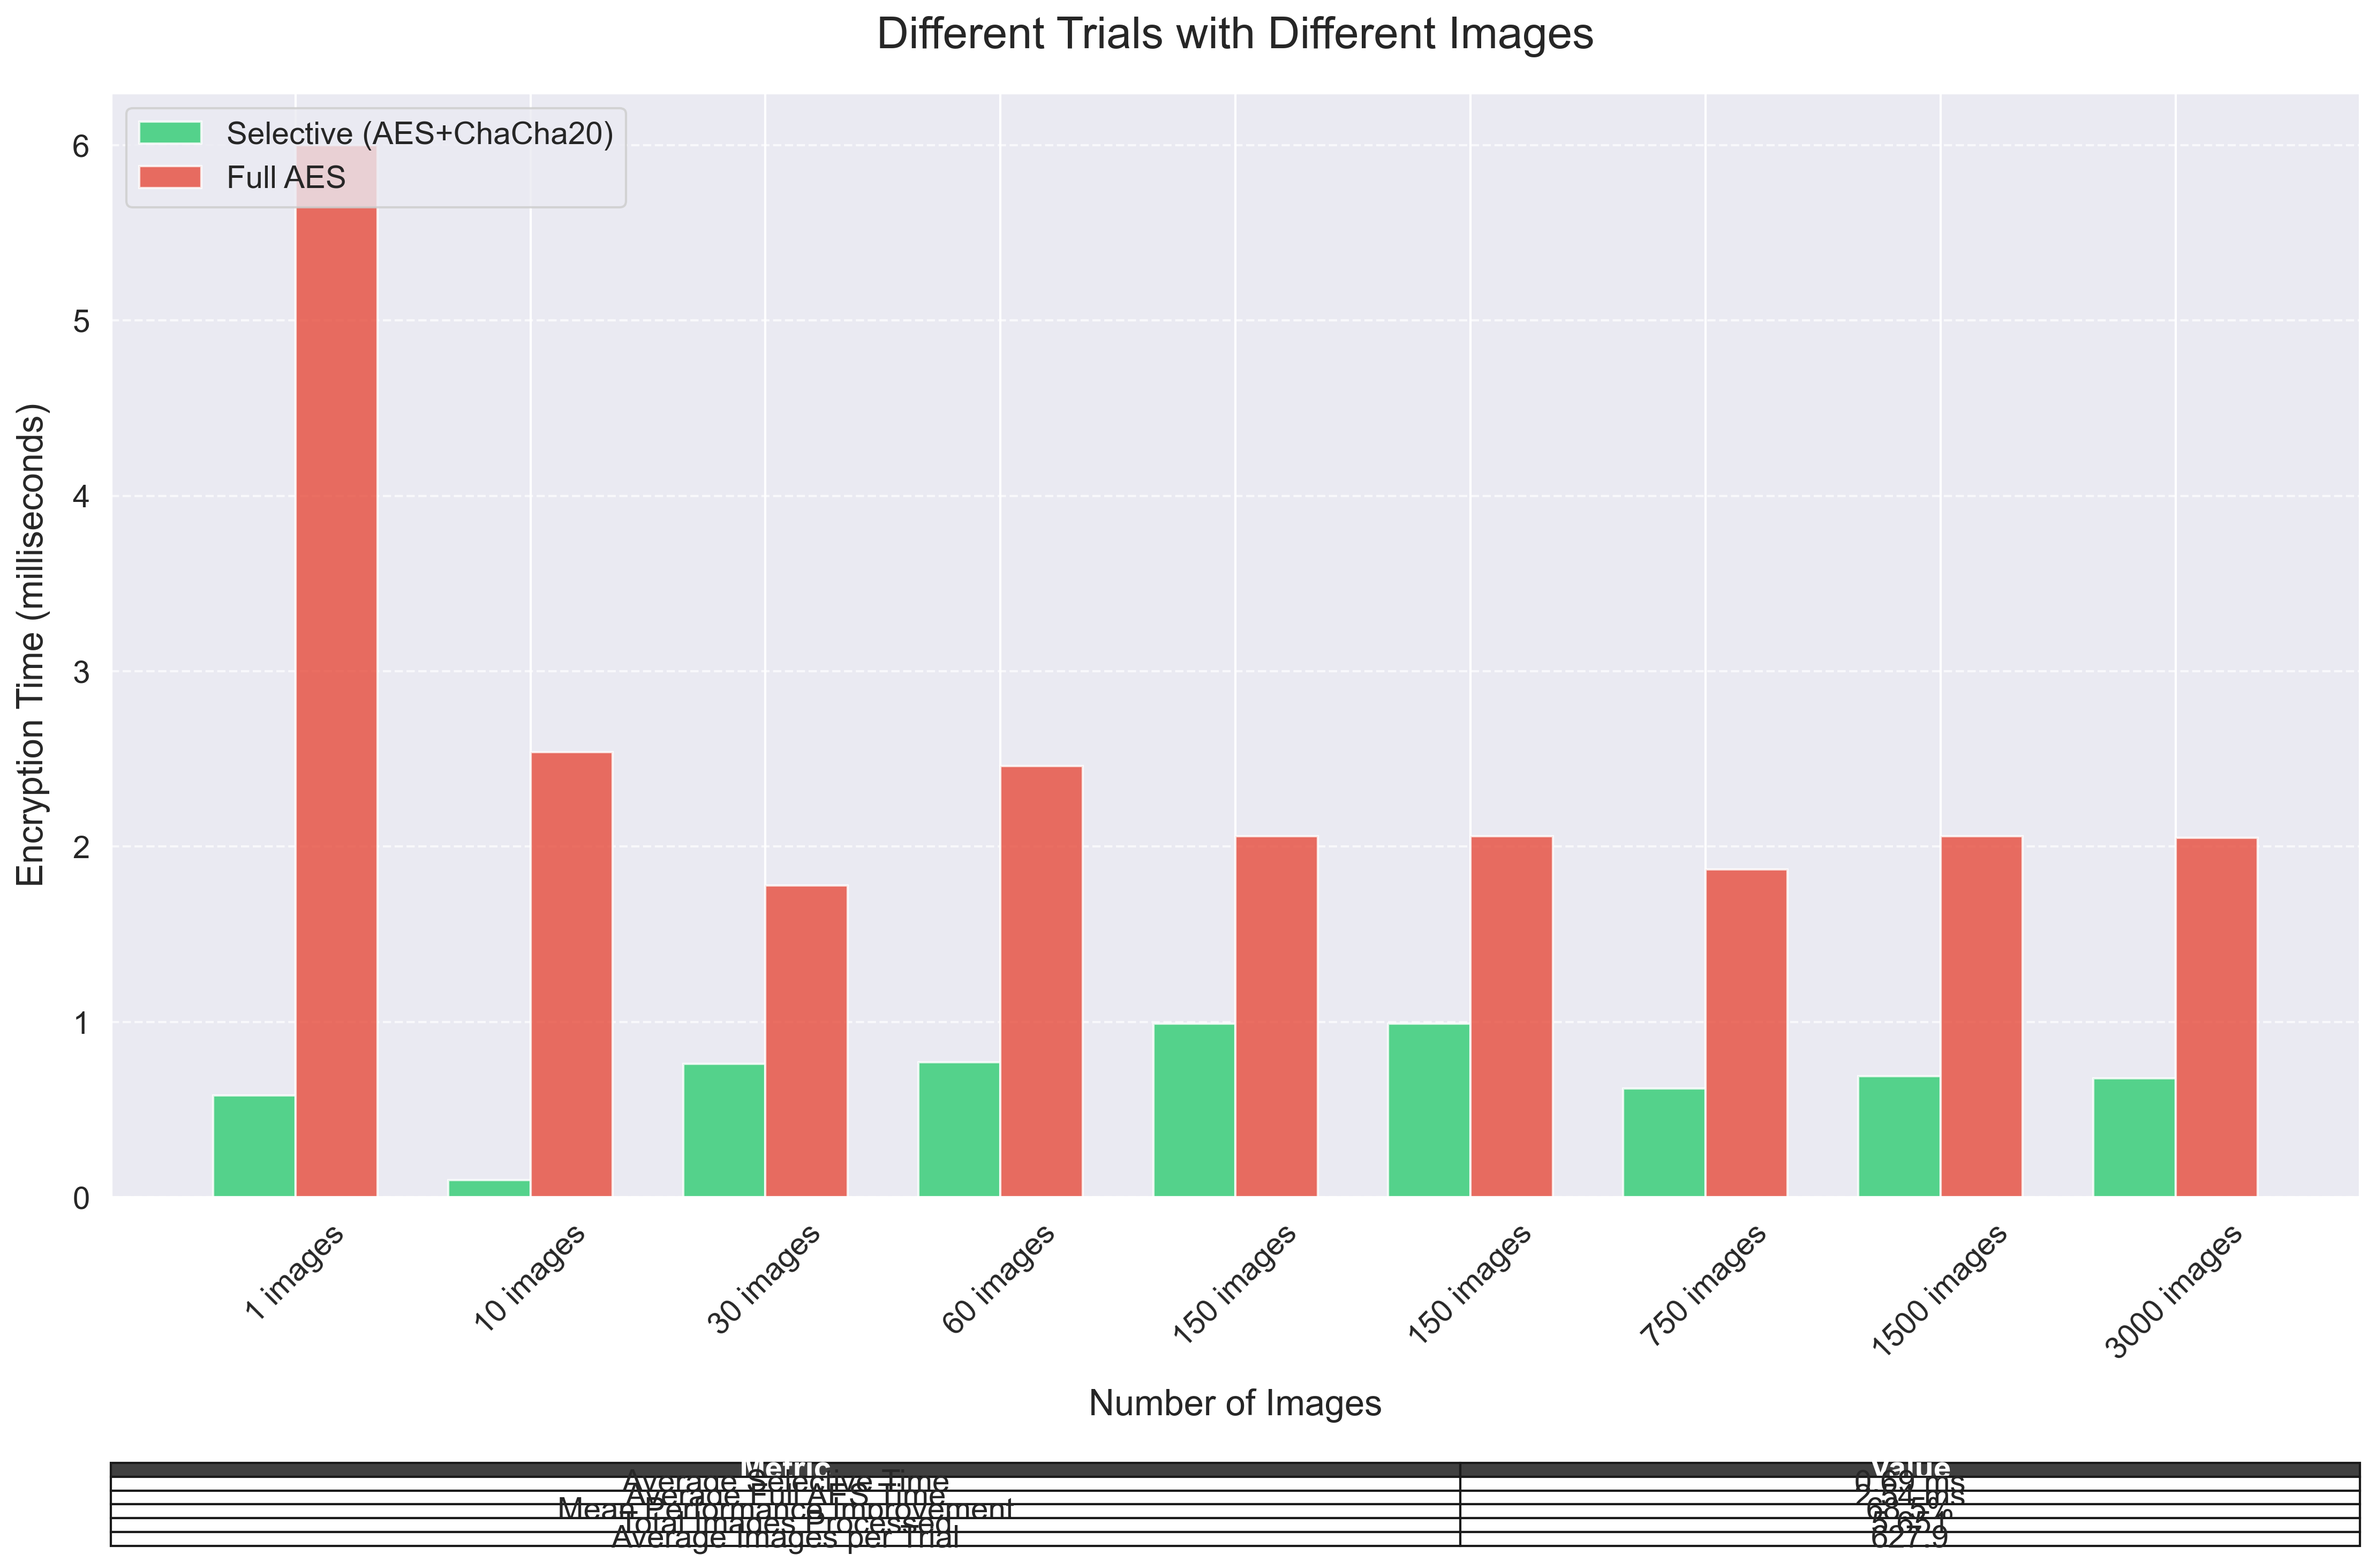
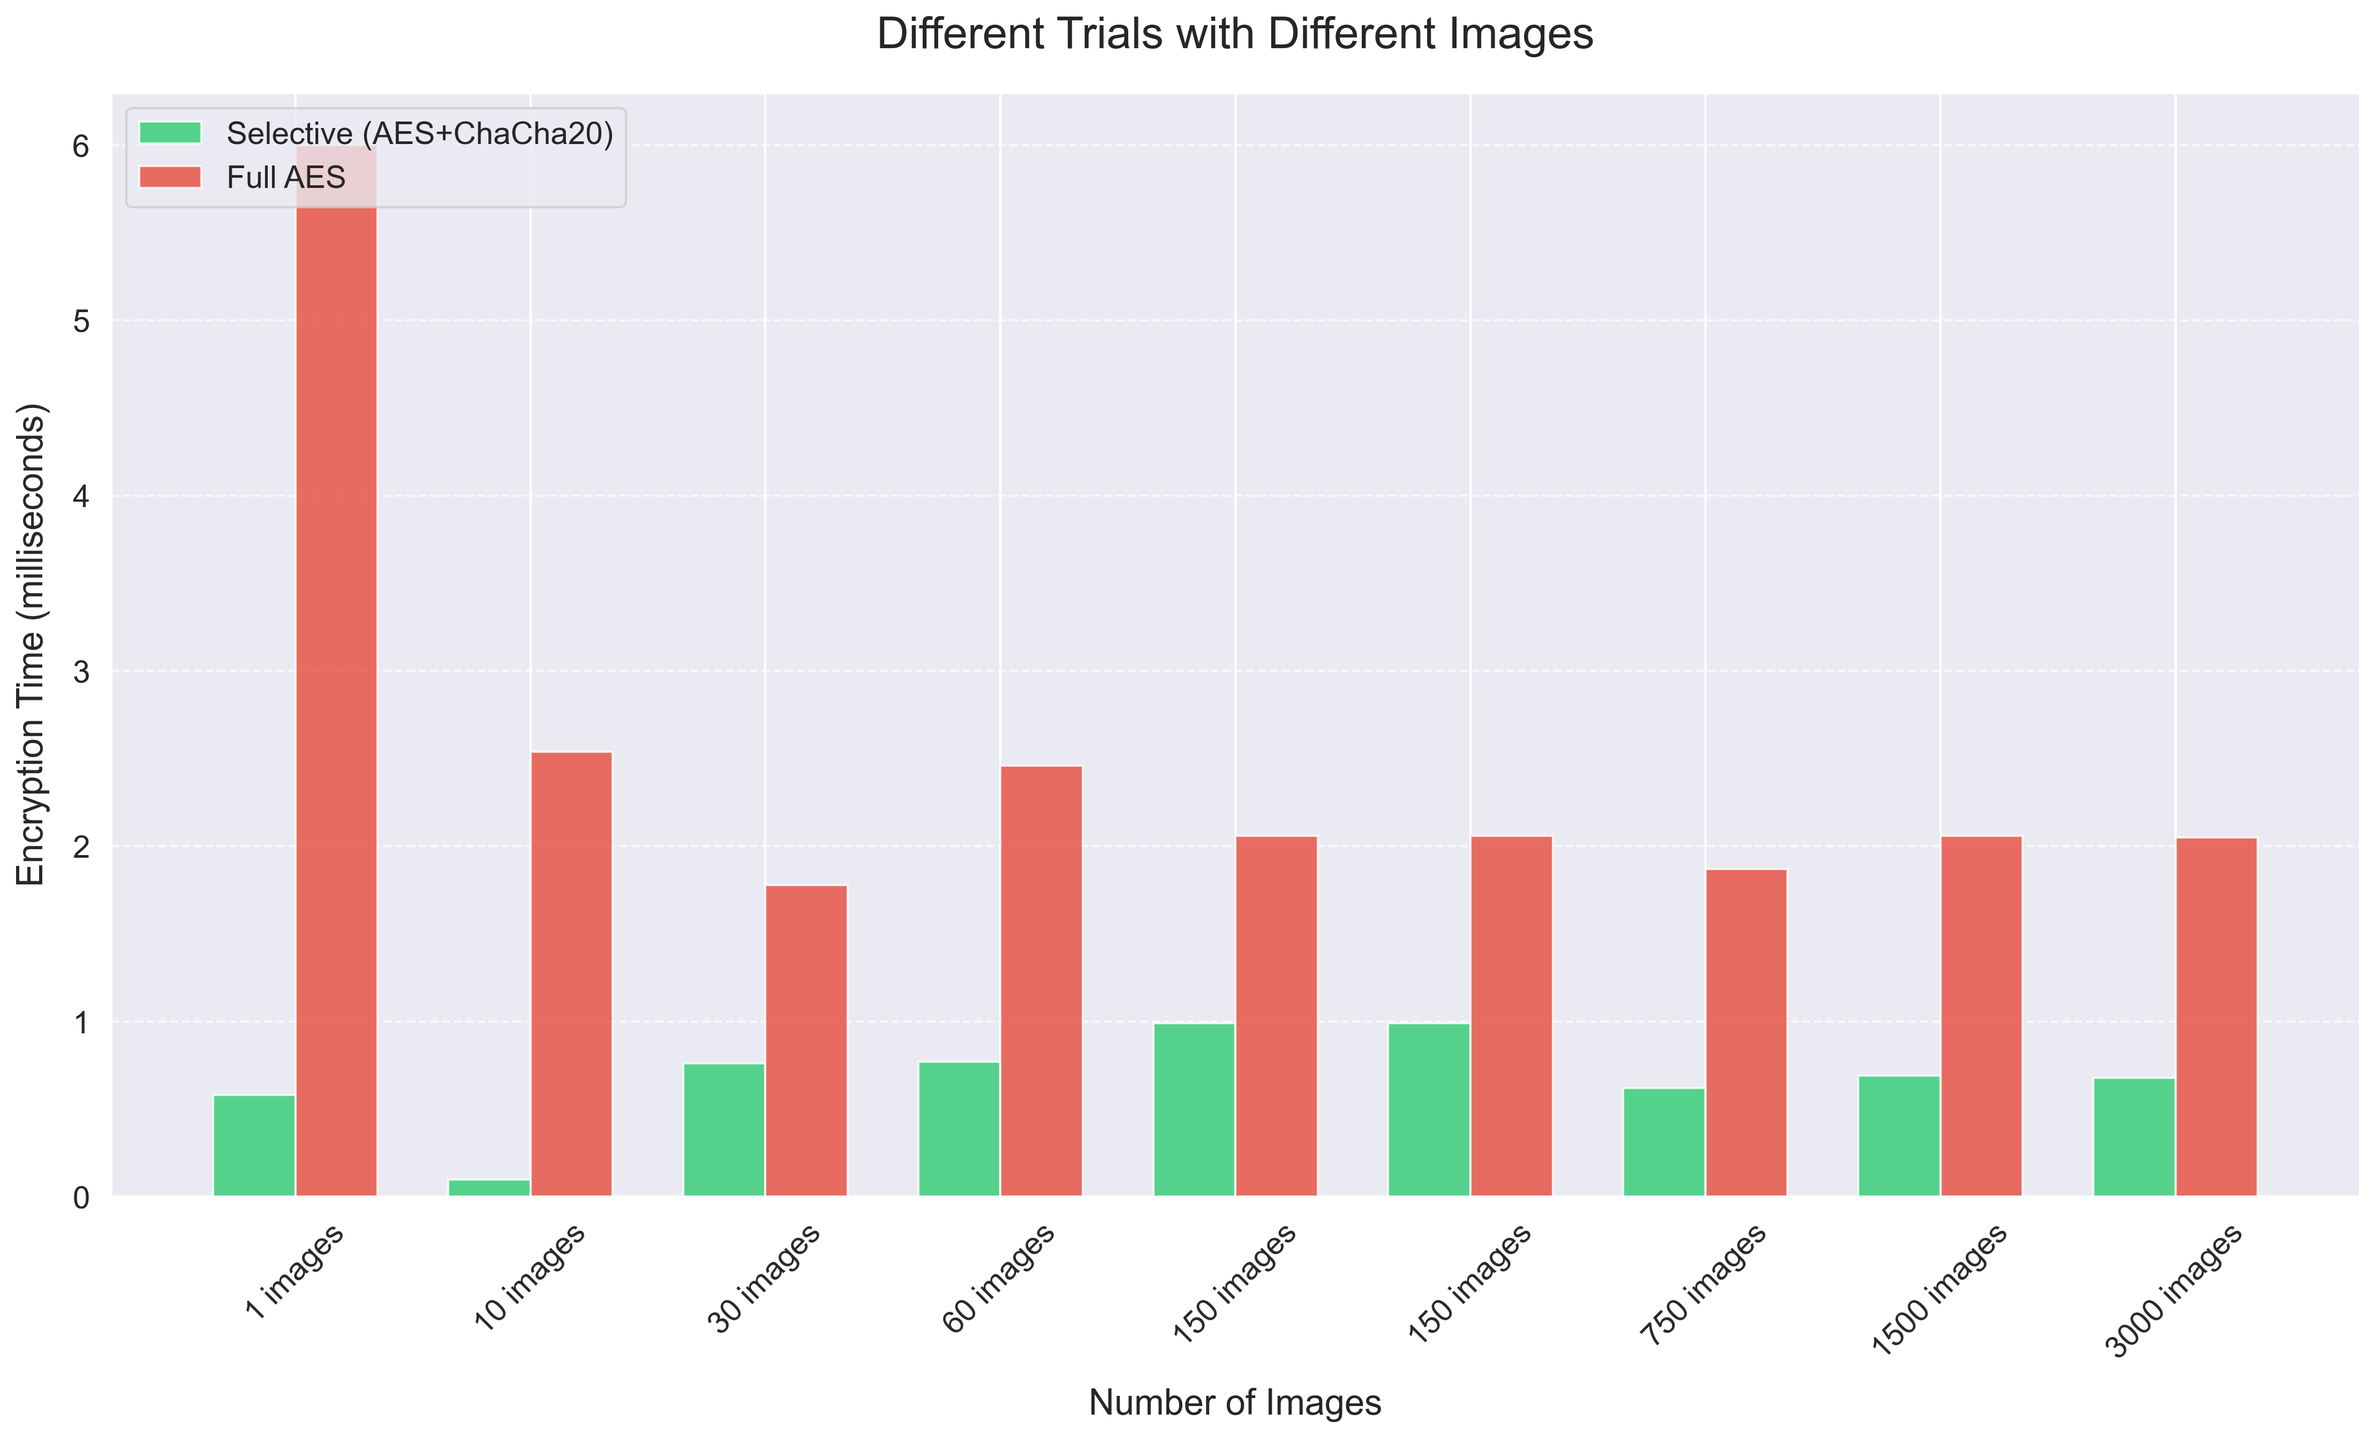
Fix Import in streamlit_app

diff --git a/src/streamlit_app.py b/src/streamlit_app.py
@@ -3,7 +3,7 @@ import os
 import pandas as pd
 from processing import log_avg, process_single_patient
 from utils import get_patient_ids
-from visualize import visualize_image
+from visualize_image import visualize_image
 BASE_DIR = "Data/Original"
 OUTPUT_DIR = "results/encrypted"
 LOG_FILE = "results/timing_reports/timing_log.csv"
